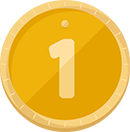
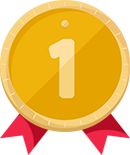
181031

diff --git a/index.html b/index.html
@@ -46,22 +46,24 @@
 
         <!-- 頭條 -->
         <div class="slider-headlines">
-            <div class="card card-headlines">
-                <img class="card-img d-none d-lg-block" src="assets/img/uploads/article-index1-desktop.jpg" alt="">
-                <img class="card-img d-lg-none" src="assets/img/uploads/article-lg1-mobile.jpg" alt="">
+            <a class="card card-headlines" href="javascript:void();">
+                <img class="card-img d-none d-xl-block" src="assets/img/uploads/article-index1-desktop.jpg" alt="">
+                <img class="card-img d-xl-none" src="assets/img/uploads/article-lg1-mobile.jpg" alt="">
                 <div class="card-img-overlay">
                     <div>
-                        <a class="h1 mb-4 mb-lg-14 d-block text-white" href="">保護耕地！生物可分解農地膜 ∣農業廢棄物加值利用</a>
-                        <a class="btn btn-outline-light px-10" href="">繼續閱讀</a>
+                        <div class="h1 mb-4 mb-lg-14 d-block text-white">保護耕地！生物可分解農地膜 ∣農業廢棄物加值利用</div>
+                        <div class="d-none d-sm-block">
+                            <div class="btn btn-outline-light px-10">繼續閱讀</div>
+                        </div>
                     </div>
                 </div>
-            </div>
-            <div class="card card-headlines">
-                <img class="card-img d-none d-lg-block" src="assets/img/uploads/article-index2-desktop.jpg" alt="">
-                <img class="card-img d-lg-none" src="assets/img/uploads/article-index2-mobile.jpg" alt="">
+            </a>
+            <a class="card card-headlines" href="javascript:void();">
+                <img class="card-img d-none d-xl-block" src="assets/img/uploads/article-index2-desktop.jpg" alt="">
+                <img class="card-img d-xl-none" src="assets/img/uploads/article-index2-mobile.jpg" alt="">
                 <div class="card-img-overlay">
                     <div>
-                        <a class="h1 mb-4 mb-lg-14 d-block text-white" href="">保護耕地！生物可分解農地膜 ∣農業廢棄物加值利用</a>
+                        <div class="h1 mb-4 mb-lg-14 d-block text-white">保護耕地！生物可分解農地膜 ∣農業廢棄物加值利用</div>
                         <div class="d-none d-sm-block">
                             <div class="row mb-4 mb-lg-14 align-items-center">
                                 <div class="col-12 col-lg-4 my-1">
@@ -78,10 +80,12 @@
                                 </div>
                             </div>
                         </div>
-                        <a class="btn btn-outline-light px-10" href="">查看內容</a>
+                        <div class="d-none d-sm-block">
+                            <div class="btn btn-outline-light px-10">查看內容</div>
+                        </div>
                     </div>
                 </div>
-            </div>
+            </a>
         </div>
 
         <!-- 工作牆 -->
@@ -91,63 +95,98 @@
             </div>
             <div class="row no-gutters">
                 <div class="col-6 col-md-4 col-lg-2">
-                    <a class="btn-img" href="">
-                        <img class="img-fluid" src="assets/img/uploads/article-lg1-mobile.jpg">
+                    <a class="card card-wall" href="">
+                        <img class="card-img" src="assets/img/uploads/article-lg1-mobile.jpg">
+                        <div class="card-img-overlay">
+                            開心農場
+                        </div>
                     </a>
                 </div>
                 <div class="col-6 col-md-4 col-lg-2">
-                    <a class="btn-img" href="">
-                        <img class="img-fluid" src="assets/img/uploads/article-lg2.jpg">
+                    <a class="card card-wall" href="">
+                        <img class="card-img" src="assets/img/uploads/article-lg2.jpg">
+                        <div class="card-img-overlay">
+                            開心農場開心農場開心農場開心農場開心農場開心農場開心農場
+                        </div>
                     </a>
                 </div>
                 <div class="col-6 col-md-4 col-lg-2">
-                    <a class="btn-img" href="">
-                        <img class="img-fluid" src="assets/img/uploads/article-lg3.jpg">
+                    <a class="card card-wall" href="">
+                        <img class="card-img" src="assets/img/uploads/article-lg3.jpg">
+                        <div class="card-img-overlay">
+                            開心農場開心農場開心農場開心農場開心農場開心農場開心農場
+                        </div>
                     </a>
                 </div>
                 <div class="col-6 col-md-4 col-lg-2">
-                    <a class="btn-img" href="">
-                        <img class="img-fluid" src="assets/img/uploads/article-lg4.jpg">
+                    <a class="card card-wall" href="">
+                        <img class="card-img" src="assets/img/uploads/article-lg4.jpg">
+                        <div class="card-img-overlay">
+                            開心農場
+                        </div>
                     </a>
                 </div>
                 <div class="col-6 col-md-4 col-lg-2">
-                    <a class="btn-img" href="">
-                        <img class="img-fluid" src="assets/img/uploads/article-lg1-mobile.jpg">
+                    <a class="card card-wall" href="">
+                        <img class="card-img" src="assets/img/uploads/article-lg1-mobile.jpg">
+                        <div class="card-img-overlay">
+                            開心農場
+                        </div>
                     </a>
                 </div>
                 <div class="col-6 col-md-4 col-lg-2">
-                    <a class="btn-img" href="">
-                        <img class="img-fluid" src="assets/img/uploads/article-lg2.jpg">
+                    <a class="card card-wall" href="">
+                        <img class="card-img" src="assets/img/uploads/article-lg2.jpg">
+                        <div class="card-img-overlay">
+                            開心農場開心農場開心農場開心農場開心農場開心農場開心農場
+                        </div>
                     </a>
                 </div>
                 <div class="col-6 col-md-4 col-lg-2">
-                    <a class="btn-img" href="">
-                        <img class="img-fluid" src="assets/img/uploads/article-lg3.jpg">
+                    <a class="card card-wall" href="">
+                        <img class="card-img" src="assets/img/uploads/article-lg3.jpg">
+                        <div class="card-img-overlay">
+                            開心農場開心農場開心農場開心農場開心農場開心農場開心農場
+                        </div>
                     </a>
                 </div>
                 <div class="col-6 col-md-4 col-lg-2">
-                    <a class="btn-img" href="">
-                        <img class="img-fluid" src="assets/img/uploads/article-lg4.jpg">
+                    <a class="card card-wall" href="">
+                        <img class="card-img" src="assets/img/uploads/article-lg4.jpg">
+                        <div class="card-img-overlay">
+                            開心農場
+                        </div>
+                    </a>
+                </div><div class="col-6 col-md-4 col-lg-2">
+                    <a class="card card-wall" href="">
+                        <img class="card-img" src="assets/img/uploads/article-lg1-mobile.jpg">
+                        <div class="card-img-overlay">
+                            開心農場
+                        </div>
                     </a>
                 </div>
                 <div class="col-6 col-md-4 col-lg-2">
-                    <a class="btn-img" href="">
-                        <img class="img-fluid" src="assets/img/uploads/article-lg1-mobile.jpg">
+                    <a class="card card-wall" href="">
+                        <img class="card-img" src="assets/img/uploads/article-lg2.jpg">
+                        <div class="card-img-overlay">
+                            開心農場開心農場開心農場開心農場開心農場開心農場開心農場
+                        </div>
                     </a>
                 </div>
                 <div class="col-6 col-md-4 col-lg-2">
-                    <a class="btn-img" href="">
-                        <img class="img-fluid" src="assets/img/uploads/article-lg2.jpg">
+                    <a class="card card-wall" href="">
+                        <img class="card-img" src="assets/img/uploads/article-lg3.jpg">
+                        <div class="card-img-overlay">
+                            開心農場開心農場開心農場開心農場開心農場開心農場開心農場
+                        </div>
                     </a>
                 </div>
                 <div class="col-6 col-md-4 col-lg-2">
-                    <a class="btn-img" href="">
-                        <img class="img-fluid" src="assets/img/uploads/article-lg3.jpg">
-                    </a>
-                </div>
-                <div class="col-6 col-md-4 col-lg-2">
-                    <a class="btn-img" href="">
-                        <img class="img-fluid" src="assets/img/uploads/article-lg4.jpg">
+                    <a class="card card-wall" href="">
+                        <img class="card-img" src="assets/img/uploads/article-lg4.jpg">
+                        <div class="card-img-overlay">
+                            開心農場
+                        </div>
                     </a>
                 </div>
             </div>
@@ -457,7 +496,7 @@
         <div class="container-fluid py-10">
             <div class="container">
                 <div class="text-center mb-3">
-                    <div class="h1 font-weight-bold">有機知識</div>
+                    <div class="h1 font-weight-bold">有機懶人包</div>
                 </div>
                 <ul class="nav nav-index justify-content-center mb-7">
                     <li class="nav-item">
@@ -634,34 +673,49 @@
                 <div class="tab-content">
                     <div class="tab-pane fade show active" id="tab-rank-farmer">
                         <div class="row">
-                            <div class="col-4 col-md">
-                                <a class="rank-face" href="">
-                                    <img class="img-fluid" src="assets/img/uploads/avatar.jpg" alt="">
-                                    <span class="award award-1"></span>
+                            <div class="col-6 col-md my-2">
+                                <a class="rank-face text-center" href="">
+                                    <figure class="position-relative">
+                                        <img class="img-fluid" src="assets/img/uploads/avatar.jpg" alt="">
+                                        <span class="award award-1"></span>
+                                    </figure>
+                                    <div class="text-dark">張一二</div>
                                 </a>
                             </div>
-                            <div class="col-4 col-md">
-                                <a class="rank-face" href="">
-                                    <img class="img-fluid" src="assets/img/uploads/avatar2.jpg" alt="">
-                                    <span class="award award-2"></span>
+                            <div class="col-6 col-md my-2">
+                                <a class="rank-face text-center" href="">
+                                    <figure class="position-relative">
+                                        <img class="img-fluid" src="assets/img/uploads/avatar2.jpg" alt="">
+                                        <span class="award award-2"></span>
+                                    </figure>
+                                    <div class="text-dark">張一二</div>
                                 </a>
                             </div>
-                            <div class="col-4 col-md">
-                                <a class="rank-face" href="">
-                                    <img class="img-fluid" src="assets/img/uploads/avatar3.jpg" alt="">
-                                    <span class="award award-3"></span>
+                            <div class="col-4 col-md my-2">
+                                <a class="rank-face text-center" href="">
+                                    <figure class="position-relative">
+                                        <img class="img-fluid" src="assets/img/uploads/avatar3.jpg" alt="">
+                                        <span class="award award-3"></span>
+                                    </figure>
+                                    <div class="text-dark">張一二</div>
                                 </a>
                             </div>
-                            <div class="col-4 col-md">
-                                <a class="rank-face" href="">
-                                    <img class="img-fluid" src="assets/img/uploads/avatar.jpg" alt="">
-                                    <span class="award award-other">4</span>
+                            <div class="col-4 col-md my-2">
+                                <a class="rank-face text-center" href="">
+                                    <figure class="position-relative">
+                                        <img class="img-fluid" src="assets/img/uploads/avatar.jpg" alt="">
+                                        <span class="award award-other">4</span>
+                                    </figure>
+                                    <div class="text-dark">張一二</div>
                                 </a>
                             </div>
-                            <div class="col-4 col-md">
-                                <a class="rank-face" href="">
-                                    <img class="img-fluid" src="assets/img/uploads/avatar.jpg" alt="">
-                                    <span class="award award-other">5</span>
+                            <div class="col-4 col-md my-2">
+                                <a class="rank-face text-center" href="">
+                                    <figure class="position-relative">
+                                        <img class="img-fluid" src="assets/img/uploads/avatar.jpg" alt="">
+                                        <span class="award award-other">5</span>
+                                    </figure>
+                                    <div class="text-dark">張一二</div>
                                 </a>
                             </div>
                         </div>

diff --git a/assets/css/custom.css b/assets/css/custom.css
@@ -175,42 +175,84 @@ a.text-line:hover {
   height: 66px;
   font-size: 2.5rem;
   color: #eae1d0; }
+.rank-face .award-1, .rank-face .award-2, .rank-face .award-3 {
+  bottom: -10px;
+  width: 65px;
+  height: 78px; }
 .rank-face .award-1 {
   background-image: url("../img/ui/icon-award-1.png"); }
 @media only screen and (-webkit-min-device-pixel-ratio: 2), only screen and (min--moz-device-pixel-ratio: 2), only screen and (-o-min-device-pixel-ratio: 2 / 1), only screen and (min-device-pixel-ratio: 2), only screen and (min-resolution: 1.25dppx), only screen and (min-resolution: 2dppx) {
   .rank-face .award-1 {
     background-image: url("../img/ui/icon-award-1@2x.png");
-    -moz-background-size: 65px, 66px;
-    -o-background-size: 65px, 66px;
-    -webkit-background-size: 65px, 66px;
-    background-size: 65px, 66px; } }
+    -moz-background-size: 100%, 100%;
+    -o-background-size: 100%, 100%;
+    -webkit-background-size: 100%, 100%;
+    background-size: 100%, 100%; } }
 .rank-face .award-2 {
   background-image: url("../img/ui/icon-award-2.png"); }
 @media only screen and (-webkit-min-device-pixel-ratio: 2), only screen and (min--moz-device-pixel-ratio: 2), only screen and (-o-min-device-pixel-ratio: 2 / 1), only screen and (min-device-pixel-ratio: 2), only screen and (min-resolution: 1.25dppx), only screen and (min-resolution: 2dppx) {
   .rank-face .award-2 {
     background-image: url("../img/ui/icon-award-2@2x.png");
-    -moz-background-size: 65px, 66px;
-    -o-background-size: 65px, 66px;
-    -webkit-background-size: 65px, 66px;
-    background-size: 65px, 66px; } }
+    -moz-background-size: 100%, 100%;
+    -o-background-size: 100%, 100%;
+    -webkit-background-size: 100%, 100%;
+    background-size: 100%, 100%; } }
 .rank-face .award-3 {
   background-image: url("../img/ui/icon-award-3.png"); }
 @media only screen and (-webkit-min-device-pixel-ratio: 2), only screen and (min--moz-device-pixel-ratio: 2), only screen and (-o-min-device-pixel-ratio: 2 / 1), only screen and (min-device-pixel-ratio: 2), only screen and (min-resolution: 1.25dppx), only screen and (min-resolution: 2dppx) {
   .rank-face .award-3 {
     background-image: url("../img/ui/icon-award-3@2x.png");
-    -moz-background-size: 65px, 66px;
-    -o-background-size: 65px, 66px;
-    -webkit-background-size: 65px, 66px;
-    background-size: 65px, 66px; } }
+    -moz-background-size: 100%, 100%;
+    -o-background-size: 100%, 100%;
+    -webkit-background-size: 100%, 100%;
+    background-size: 100%, 100%; } }
 .rank-face .award-other {
   background-image: url("../img/ui/icon-award-other.png"); }
 @media only screen and (-webkit-min-device-pixel-ratio: 2), only screen and (min--moz-device-pixel-ratio: 2), only screen and (-o-min-device-pixel-ratio: 2 / 1), only screen and (min-device-pixel-ratio: 2), only screen and (min-resolution: 1.25dppx), only screen and (min-resolution: 2dppx) {
   .rank-face .award-other {
     background-image: url("../img/ui/icon-award-other@2x.png");
-    -moz-background-size: 65px, 66px;
-    -o-background-size: 65px, 66px;
-    -webkit-background-size: 65px, 66px;
-    background-size: 65px, 66px; } }
+    -moz-background-size: 100%, 100%;
+    -o-background-size: 100%, 100%;
+    -webkit-background-size: 100%, 100%;
+    background-size: 100%, 100%; } }
+@media (max-width: 991.98px) {
+  .rank-face .award {
+    background-size: cover; }
+  .rank-face .award-1, .rank-face .award-2, .rank-face .award-3 {
+    width: 40px;
+    height: 48px; }
+  .rank-face .award-other {
+    width: 40px;
+    height: 41px;
+    font-size: 1rem; } }
+
+.card-wall {
+  display: block;
+  overflow: hidden;
+  background-color: #000;
+  border: 0;
+  border-radius: 0;
+  color: #fff; }
+.card-wall img {
+  -moz-transition: all 0.3s;
+  -o-transition: all 0.3s;
+  -webkit-transition: all 0.3s;
+  transition: all 0.3s; }
+.card-wall .card-img-overlay {
+  display: none;
+  align-items: center;
+  justify-content: center;
+  text-align: center; }
+.card-wall:hover, .card-wall:active, .card-wall:focus {
+  color: #fff; }
+.card-wall:hover .card-img-overlay, .card-wall:active .card-img-overlay, .card-wall:focus .card-img-overlay {
+  display: flex; }
+.card-wall:hover img, .card-wall:active img, .card-wall:focus img {
+  -moz-transform: scale(1.2);
+  -ms-transform: scale(1.2);
+  -webkit-transform: scale(1.2);
+  transform: scale(1.2);
+  opacity: .6; }
 
 @media (max-width: 991.98px) {
   .table-rwd thead {
@@ -269,6 +311,9 @@ a.text-line:hover {
 .text-black {
   color: #000; }
 
+@media (max-width: 991.98px) {
+  .h1 {
+    font-size: 2rem; } }
 .nav-info .nav-item {
   border-left: 1px solid #ced4da; }
 .nav-info .nav-item .nav-link {
@@ -421,22 +466,6 @@ a.text-line:hover {
   width: 100%; }
 .btn-group-justified .btn .dropdown-menu, .btn-group-justified .btn-group .dropdown-menu {
   left: auto; }
-
-.btn-img {
-  display: block;
-  overflow: hidden;
-  background-color: #000; }
-.btn-img img {
-  -moz-transition: all 0.3s;
-  -o-transition: all 0.3s;
-  -webkit-transition: all 0.3s;
-  transition: all 0.3s; }
-.btn-img:hover img, .btn-img:active img, .btn-img:focus img {
-  -moz-transform: scale(1.2);
-  -ms-transform: scale(1.2);
-  -webkit-transform: scale(1.2);
-  transform: scale(1.2);
-  opacity: .8; }
 
 .btn-story:hover img, .btn-story:active img, .btn-story:focus img {
   opacity: .8; }
